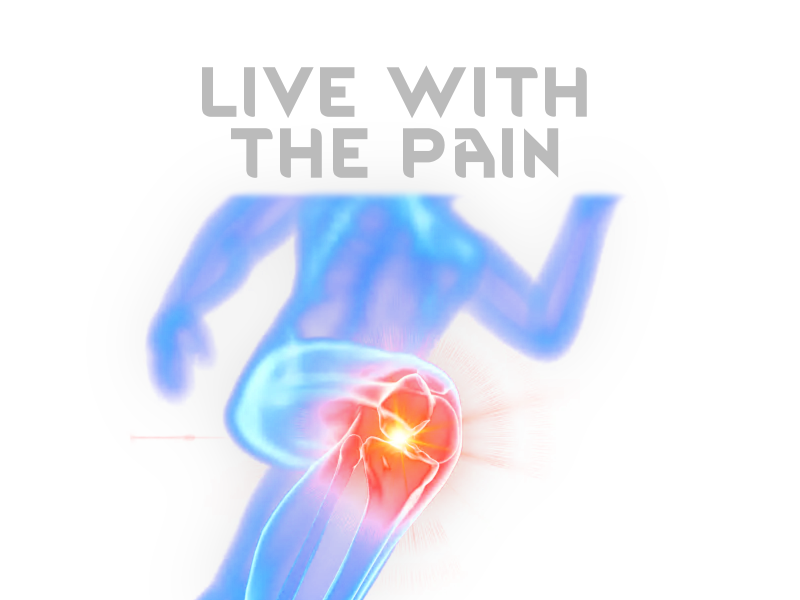
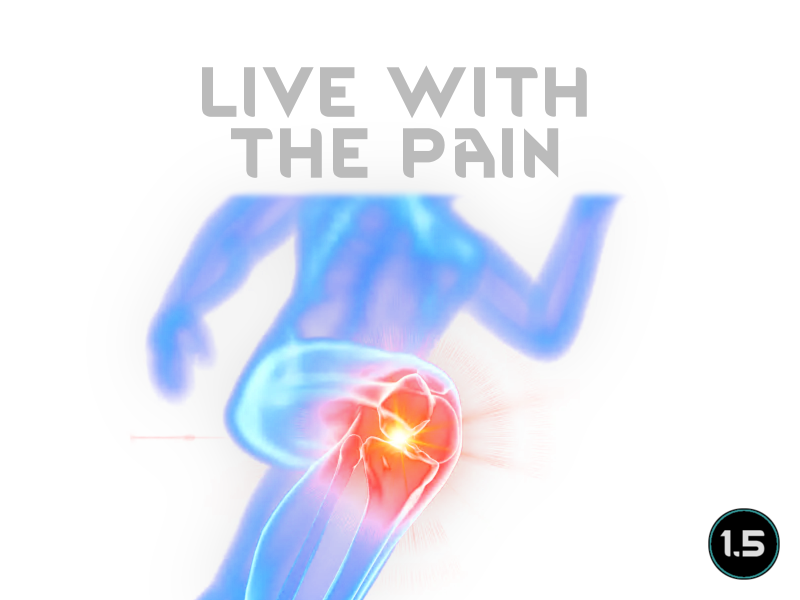
Mod updated for 1.5 and passed autotests

Changed region(s): [[0.875, 0.84, 1.0, 0.99]]

diff --git a/Source/LiveWithThePain/LiveWithThePainMod.cs b/Source/LiveWithThePain/LiveWithThePainMod.cs
@@ -28,10 +28,9 @@ internal class LiveWithThePainMod : Mod
         Instance = this;
         Settings = GetSettings<LiveWithThePainSettings>();
         currentVersion =
-            VersionFromManifest.GetVersionFromModMetaData(
-                ModLister.GetActiveModWithIdentifier("Mlie.LiveWithThePain"));
+            VersionFromManifest.GetVersionFromModMetaData(content.ModMetaData);
     }
-    
+
 
     /// <summary>
     ///     The title for the mod-settings
@@ -54,17 +53,17 @@ internal class LiveWithThePainMod : Mod
         listing_Standard.Gap();
         var spacer = 30;
         listing_Standard.Gap();
-        Settings.StageOne = (int)Widgets.HorizontalSlider_NewTemp(listing_Standard.GetRect(spacer), Settings.StageOne, 0,
+        Settings.StageOne = (int)Widgets.HorizontalSlider(listing_Standard.GetRect(spacer), Settings.StageOne, 0,
             Settings.StageTwo, false,
             $"{"LWTP.StageOne".Translate()}: {"LWTP.Days".Translate(Settings.StageOne / GenDate.TicksPerDay)}",
             null, null, 1);
-        Settings.StageTwo = (int)Widgets.HorizontalSlider_NewTemp(listing_Standard.GetRect(spacer), Settings.StageTwo,
+        Settings.StageTwo = (int)Widgets.HorizontalSlider(listing_Standard.GetRect(spacer), Settings.StageTwo,
             Settings.StageOne,
             Settings.StageThree, false,
             $"{"LWTP.StageTwo".Translate()}: {"LWTP.Days".Translate(Settings.StageTwo / GenDate.TicksPerDay)}",
             null, null,
             1);
-        Settings.StageThree = (int)Widgets.HorizontalSlider_NewTemp(listing_Standard.GetRect(spacer), Settings.StageThree,
+        Settings.StageThree = (int)Widgets.HorizontalSlider(listing_Standard.GetRect(spacer), Settings.StageThree,
             Settings.StageTwo,
             GenDate.TicksPerYear * 2,
             false,
@@ -72,14 +71,14 @@ internal class LiveWithThePainMod : Mod
             null, null, 1);
 
         listing_Standard.Gap();
-        Settings.PainOne = Widgets.HorizontalSlider_NewTemp(listing_Standard.GetRect(spacer), Settings.PainOne,
+        Settings.PainOne = Widgets.HorizontalSlider(listing_Standard.GetRect(spacer), Settings.PainOne,
             0, 2f, false,
             $"{"LWTP.PainOne".Translate()}: {"LWTP.Percent".Translate(Math.Round(Settings.PainOne * 100))}");
-        Settings.PainTwo = Widgets.HorizontalSlider_NewTemp(listing_Standard.GetRect(spacer),
+        Settings.PainTwo = Widgets.HorizontalSlider(listing_Standard.GetRect(spacer),
             Settings.PainTwo,
             0, 2f, false,
             $"{"LWTP.PainTwo".Translate()}: {"LWTP.Percent".Translate(Math.Round(Settings.PainTwo * 100))}");
-        Settings.PainThree = Widgets.HorizontalSlider_NewTemp(listing_Standard.GetRect(spacer), Settings.PainThree,
+        Settings.PainThree = Widgets.HorizontalSlider(listing_Standard.GetRect(spacer), Settings.PainThree,
             0, 2f, false,
             $"{"LWTP.PainThree".Translate()}: {"LWTP.Percent".Translate(Math.Round(Settings.PainThree * 100))}");
 

diff --git a/README.md b/README.md
@@ -1,6 +1,6 @@
 # LiveWithThePain
 
-![Image](https://i.imgur.com/buuPQel.png)
+![Image](https://i.imgur.com/iCj5o7O.png)
 
 
 Injuries that gets permanent and causes permanent pain will now get less painful over time. 
@@ -29,25 +29,26 @@ Safe to add and remove from saves
 
 Idea by: SkeleMax
 	
-![Image](https://i.imgur.com/O0IIlYj.png)
+![Image](https://i.imgur.com/Ds0rBAD.png)
 
 Since modding is just a hobby for me I expect no donations to keep modding. If you still want to show your support you can gift me anything from my https://store.steampowered.com/wishlist/id/Mlie]Wishlist or buy me a cup of tea.
 
-https://ko-fi.com/G2G55DDYD]![Image](https://i.imgur.com/Utx6OIH.png)
+https://ko-fi.com/G2G55DDYD]![Image](https://i.imgur.com/VWG0yff.png)
 
 
-![Image](https://i.imgur.com/PwoNOj4.png)
+![Image](https://i.imgur.com/5xwDG6H.png)
 
 
 
 -  See if the the error persists if you just have this mod and its requirements active.
 -  If not, try adding your other mods until it happens again.
--  Post your error-log using https://steamcommunity.com/workshop/filedetails/?id=818773962]HugsLib and command Ctrl+F12
+-  Post your error-log using https://steamcommunity.com/workshop/filedetails/?id=818773962]HugsLib or the standalone https://steamcommunity.com/sharedfiles/filedetails/?id=2873415404]Uploader and command Ctrl+F12
 -  For best support, please use the Discord-channel for error-reporting.
 -  Do not report errors by making a discussion-thread, I get no notification of that.
 -  If you have the solution for a problem, please post it to the GitHub repository.
+-  Use https://github.com/RimSort/RimSort/releases/latest]RimSort to sort your mods
 
 
 
+https://steamcommunity.com/sharedfiles/filedetails/changelog/2659985388]![Image](https://img.shields.io/github/v/release/emipa606/LiveWithThePain?label=latest%20version&style=plastic&labelColor=0070cd&color=white)
 
-https://steamcommunity.com/sharedfiles/filedetails/changelog/2659985388]Last updated 2023-01-24
